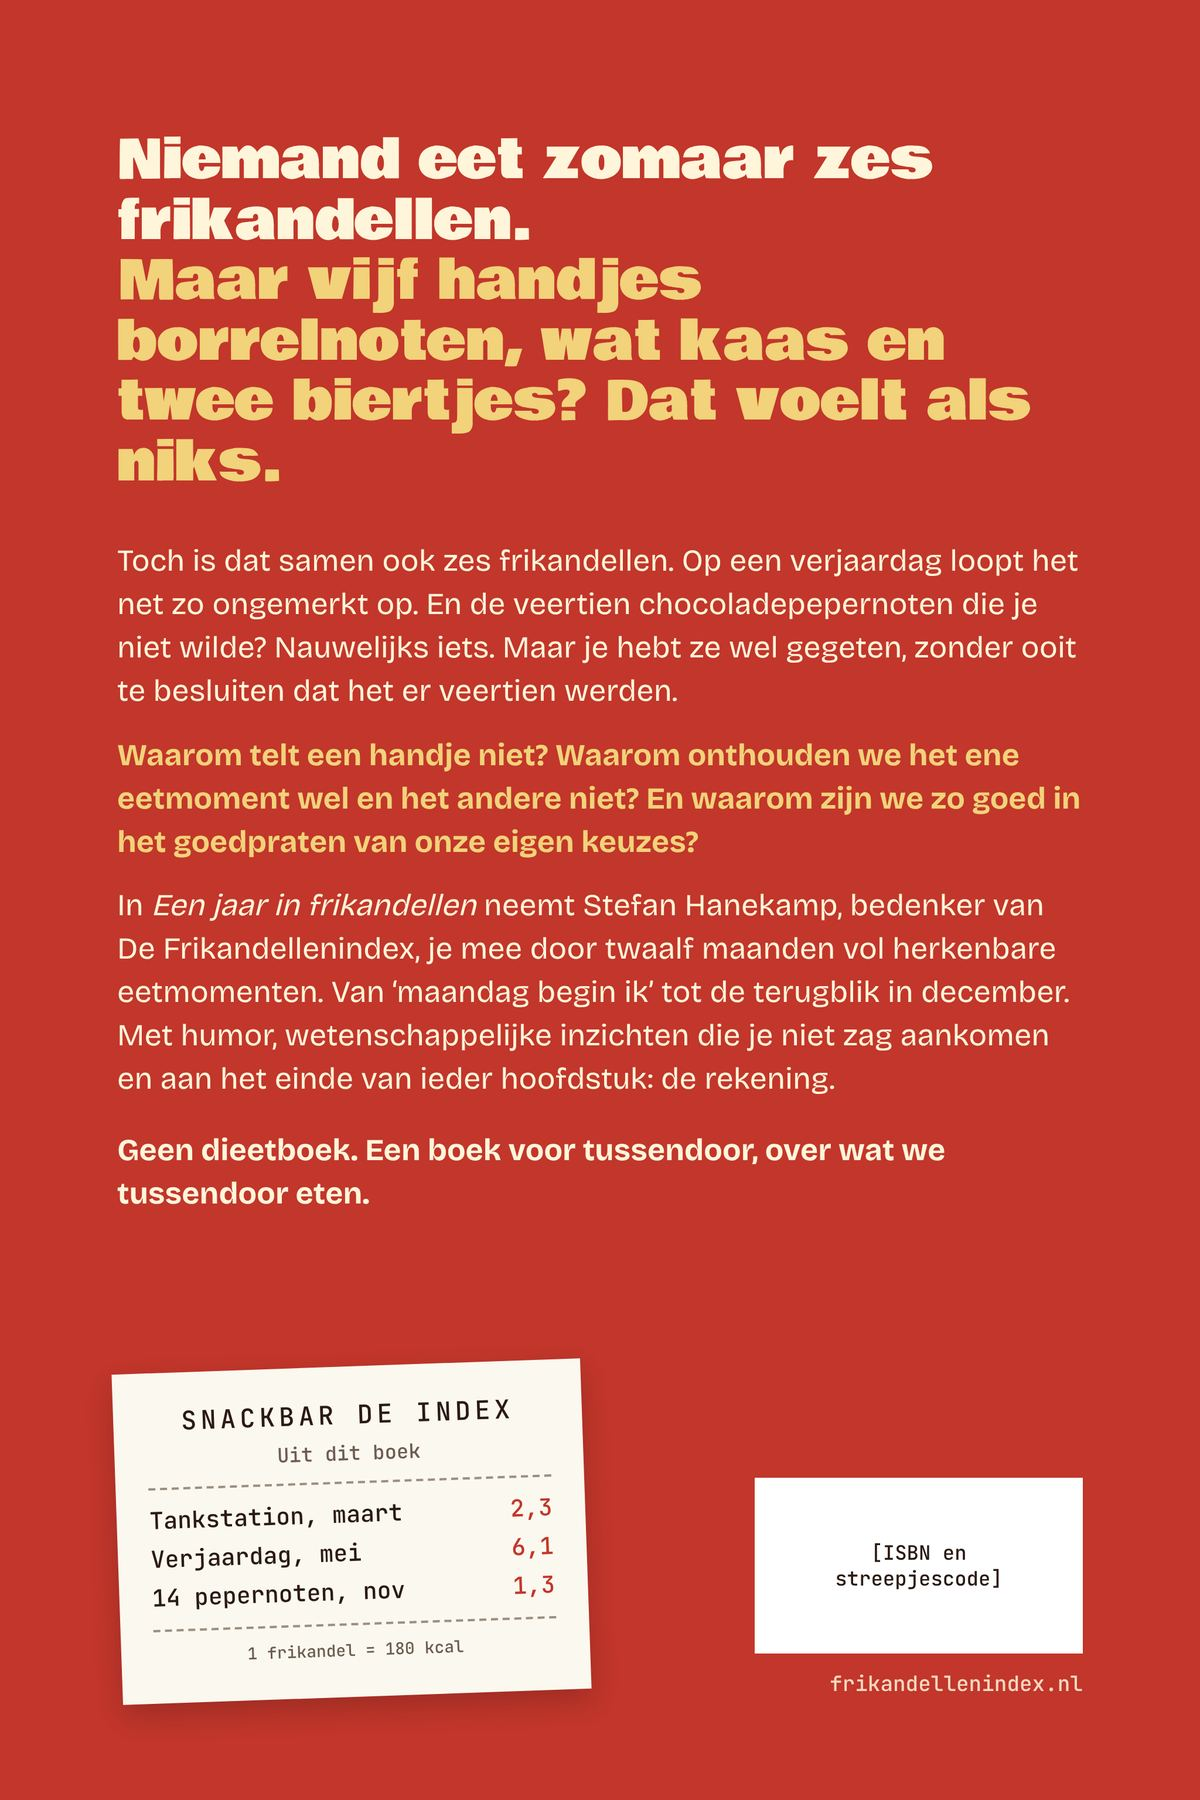
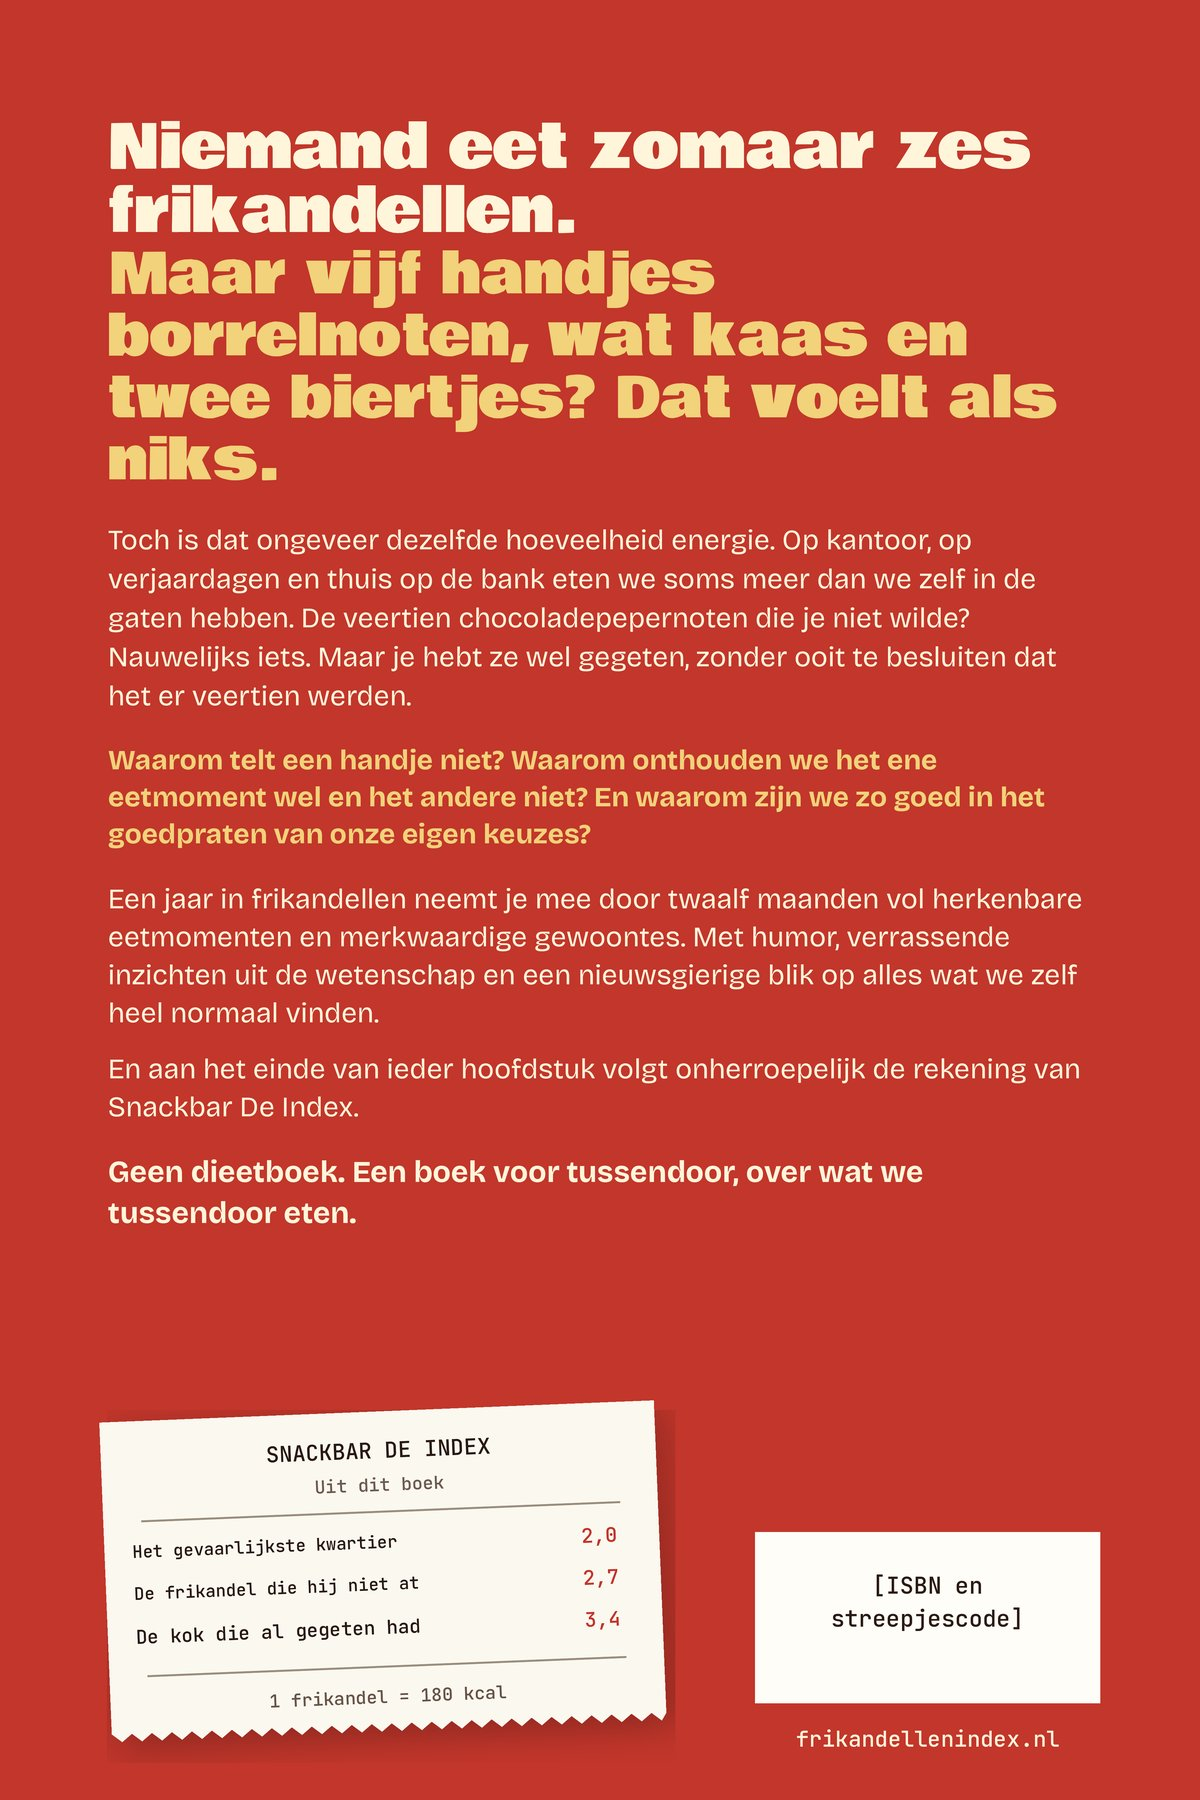
Boek: geen achternaam en geen 2027 op de site; nieuwe voor- en achterkant
- /boek/: eyebrow 'Het boek', stempel 'In de maak', flaptekst gelijk aan nieuwe achterkant
- Uit dit boek: drie hoofdstukken van het bonnetje, met teksten van Stefan
- Nieuw deelplaatje zonder naam en jaartal
- /over/: 'verwacht in 2027' wordt 'In de maak'

Claude-Session: https://claude.ai/code/session_01APyxqPrzmoXXgtRsMhubD6

Changed region(s): [[0.0925, 0.0622, 0.8942, 0.6844], [0.0617, 0.7467, 0.5858, 0.9956], [0.6167, 0.8089, 0.925, 0.9956]]

diff --git a/pages/boek.html b/pages/boek.html
@@ -1,15 +1,15 @@
-<!--meta {"title": "Een jaar in frikandellen: het boek | De Frikandellenindex", "description": "Een jaar in frikandellen. De verrassende psychologie van alles wat we tussendoor eten. Het boek van Stefan Hanekamp, bedenker van De Frikandellenindex. In de maak, verwacht in 2027.", "path": "/boek/", "tab": "", "og": "/assets/img/og/boek.png"} -->
+<!--meta {"title": "Een jaar in frikandellen: het boek | De Frikandellenindex", "description": "Een jaar in frikandellen. De verrassende psychologie van alles wat we tussendoor eten. Het boek van Stefan, de maker van De Frikandellenindex. In de maak.", "path": "/boek/", "tab": "", "og": "/assets/img/og/boek.png"} -->
 <article class="boek">
     <header class="boek-kop">
-      <span class="eyebrow">Het boek · Stefan Hanekamp</span>
+      <span class="eyebrow">Het boek</span>
       <h1 class="boek-titel">Een jaar in <em>frikandellen.</em></h1>
       <p class="boek-sub">De verrassende psychologie van alles wat we tussendoor eten</p>
-      <span class="blog-stempel boek-stempel">In de maak · verwacht in 2027</span>
+      <span class="blog-stempel boek-stempel">In de maak</span>
     </header>
 
     <div class="omslagen">
       <figure class="omslag-voor">
-        <img src="/assets/img/boek/voorkant-480.jpg" srcset="/assets/img/boek/voorkant-480.jpg 480w, /assets/img/boek/voorkant-960.jpg 960w" sizes="(min-width: 600px) 400px, 70vw" width="480" height="720" alt="Voorkant van het boek Een jaar in frikandellen van Stefan Hanekamp. Een bonnetje van Snackbar De Index rekent de vrijdagborrel uit: vijf handjes borrelnoten, vier blokjes kaas en twee biertjes, totaal 6,0 frikandellen. Een rode stempel zegt: 12 maanden eetgedrag onder de loep.">
+        <img src="/assets/img/boek/voorkant-480.jpg" srcset="/assets/img/boek/voorkant-480.jpg 480w, /assets/img/boek/voorkant-960.jpg 960w" sizes="(min-width: 600px) 400px, 70vw" width="480" height="720" alt="Voorkant van het boek Een jaar in frikandellen. Een bonnetje van Snackbar De Index rekent de vrijdagborrel uit: vijf handjes borrelnoten, vier blokjes kaas en twee biertjes, totaal 6,0 frikandellen. Een rode stempel zegt: 12 maanden eetgedrag onder de loep.">
       </figure>
       <figure class="omslag-achter">
         <a class="achter-knop" href="/assets/img/boek/achterkant-1200.jpg" data-lightbox="achterkant" aria-haspopup="dialog">
@@ -22,18 +22,19 @@
     <section class="flap" aria-labelledby="h-flap">
       <h2 class="sr" id="h-flap">Waar het boek over gaat</h2>
       <p class="flap-kop">Niemand eet zomaar zes frikandellen. <em>Maar vijf handjes borrelnoten, wat kaas en twee biertjes? Dat voelt als niks.</em></p>
-      <p>Toch is dat samen ook zes frikandellen. Op een verjaardag loopt het net zo ongemerkt op. En de veertien chocoladepepernoten die je niet wilde? Nauwelijks iets. Maar je hebt ze wel gegeten, zonder ooit te besluiten dat het er veertien werden.</p>
+      <p>Toch is dat ongeveer dezelfde hoeveelheid energie. Op kantoor, op verjaardagen en thuis op de bank eten we soms meer dan we zelf in de gaten hebben. De veertien chocoladepepernoten die je niet wilde? Nauwelijks iets. Maar je hebt ze wel gegeten, zonder ooit te besluiten dat het er veertien werden.</p>
       <p class="flap-vragen">Waarom telt een handje niet? Waarom onthouden we het ene eetmoment wel en het andere niet? En waarom zijn we zo goed in het goedpraten van onze eigen keuzes?</p>
-      <p>In <i>Een jaar in frikandellen</i> neemt Stefan Hanekamp, bedenker van De Frikandellenindex, je mee door twaalf maanden vol herkenbare eetmomenten. Van ‘maandag begin ik’ tot de terugblik in december. Met humor, wetenschappelijke inzichten die je niet zag aankomen en aan het einde van ieder hoofdstuk: de rekening.</p>
+      <p><i>Een jaar in frikandellen</i> neemt je mee door twaalf maanden vol herkenbare eetmomenten en merkwaardige gewoontes. Met humor, verrassende inzichten uit de wetenschap en een nieuwsgierige blik op alles wat we zelf heel normaal vinden.</p>
+      <p>En aan het einde van ieder hoofdstuk volgt onherroepelijk de rekening van Snackbar De Index.</p>
       <p class="flap-slot">Geen dieetboek. Een boek voor tussendoor, over wat we tussendoor eten.</p>
     </section>
 
     <section class="stack greep" aria-labelledby="h-greep">
       <h2 id="h-greep">Uit dit boek</h2>
       <ul class="momenten">
-        <li><span class="mlabel">Veertien pepernoten</span><p>Je besluit zeven keer “nog twee”. Nooit “veertien”.</p></li>
-        <li><span class="mlabel">Koffie bij schoonmoeder</span><p>“Nee, dank je.” En dan: “Nou vooruit, eentje dan.”</p></li>
-        <li><span class="mlabel">De rust</span><p>De score weet je nog precies. Hoeveel chips je at, niet.</p></li>
+        <li><span class="mlabel">Het gevaarlijkste kwartier</span><p>Om kwart voor vier had hij er eentje verdiend. Om twee voor vier blijkbaar nog een.</p></li>
+        <li><span class="mlabel">De frikandel die hij niet at</span><p>De tweede frikandel sloeg hij af. De borrelnoten waren een ander verhaal.</p></li>
+        <li><span class="mlabel">De kok die al gegeten had</span><p>Hij had nog niks gegeten. Hij had alleen geproefd.</p></li>
       </ul>
       <p class="greep-slot">Twaalf maanden, twaalf momenten. En steeds de vraag waarom.</p>
       <a class="cta" href="/reken/">Reken je eigen moment uit →</a>
@@ -41,6 +42,6 @@
 
     <dialog class="lightbox" id="lightbox" aria-label="Achterkant van het boek">
       <button type="button" class="lb-sluit" aria-label="Sluiten">×</button>
-      <img src="/assets/img/boek/achterkant-1200.jpg" loading="lazy" width="1200" height="1800" alt="Achterkant van het boek. Tekst: Niemand eet zomaar zes frikandellen. Maar vijf handjes borrelnoten, wat kaas en twee biertjes? Dat voelt als niks. Daaronder de flaptekst, en een bonnetje van Snackbar De Index uit dit boek: tankstation in maart 2,3, verjaardag in mei 6,1, veertien pepernoten in november 1,3. 1 frikandel is 180 kcal.">
+      <img src="/assets/img/boek/achterkant-1200.jpg" loading="lazy" width="1200" height="1800" alt="Achterkant van het boek. Tekst: Niemand eet zomaar zes frikandellen. Maar vijf handjes borrelnoten, wat kaas en twee biertjes? Dat voelt als niks. Daaronder de flaptekst, en een bonnetje van Snackbar De Index uit dit boek: het gevaarlijkste kwartier 2,0, de frikandel die hij niet at 2,7, de kok die al gegeten had 3,4. 1 frikandel is 180 kcal.">
     </dialog>
   </article>

diff --git a/pages/over.html b/pages/over.html
@@ -13,7 +13,7 @@
     <p>Met een Snickers uit de automaat, een calorie-app en twee wijntjes op vrijdag.</p>
     <a class="link" href="/over/hoe-het-begon/">Lees hoe het begon →</a>
     <h3>Het boek</h3>
-    <p>Er komt ook een boek: <i>Een jaar in frikandellen</i>, over de verrassende psychologie van alles wat we tussendoor eten. Twaalf maanden, twaalf herkenbare momenten. In de maak, verwacht in 2027.</p>
+    <p>Er komt ook een boek: <i>Een jaar in frikandellen</i>, over de verrassende psychologie van alles wat we tussendoor eten. Twaalf maanden, twaalf herkenbare momenten. In de maak.</p>
     <a class="link" href="/boek/">Over het boek →</a>
     <div class="stack" lang="en" data-nosnippet>
       <h3>In English</h3>
